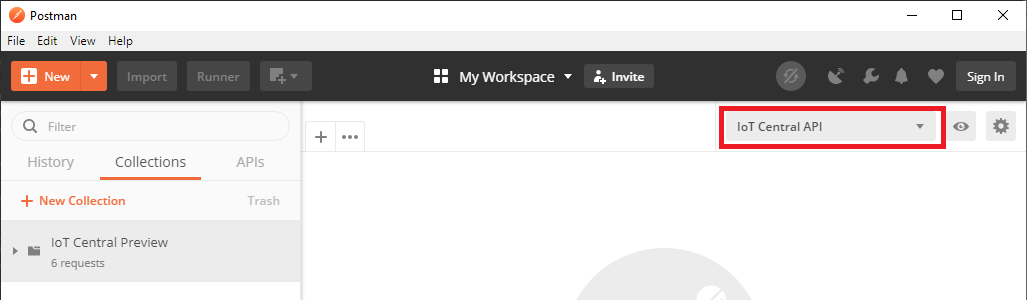
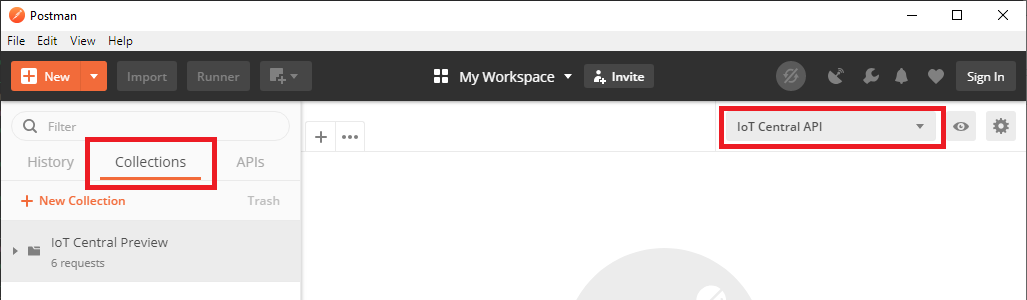
Dry run

Changed region(s): [[0.0623, 0.45, 0.2181, 0.66]]

diff --git a/lab02/IoT-PnP-DeviceFirstProvisioning.md b/lab02/IoT-PnP-DeviceFirstProvisioning.md
@@ -26,7 +26,11 @@ Furthermore, with IoT Plug and Play, cloud solution can understand devices' capa
 > [!IMPORTANT]  
 > **In VSCode with Remote Connection to RP4**
 
-1. Copy and replace `main.c` from `DeviceFirstProvision`  
+> [!TIP]  
+> If you are interested in you can diff the code changes using VSCode's built-in diff function.  
+> [Running Code Diff](https://github.com/awaregroup/Intelligent-Edge-in-a-Day/blob/iotpnp-daisuke/lab02/media/code-diff.mp4)
+
+1. Copy and replace `main.c` from `DeviceFirst` folder  
 
     ```bash
     cp ~/Intelligent-Edge-in-a-Day/lab02/DeviceFirst/main.c ~/Intelligent-Edge-in-a-Day/codegen1

diff --git a/lab02/IoT-PnP-DeviceIdentity-API.md b/lab02/IoT-PnP-DeviceIdentity-API.md
@@ -20,10 +20,6 @@ In [manual operation section](IoT-PnP-DeviceIdentity-Manual.md), you performed a
 
 If you have a device identity and a device template in your IoT Central please delete them.
 
-You may run `Cleanup IoT Central` collection in Postman or manually delete them in IoT Central.
-
-![postman-08](media/postman-08.png)
-
 ## Send RESTful API
 
 `Create Device Identity` Postman collection runs the first 2 operations.

diff --git a/lab02/IoT-PnP-DeviceSpecificCode.md b/lab02/IoT-PnP-DeviceSpecificCode.md
@@ -48,7 +48,7 @@ To make your device app complete, we need to add code to these placeholder funct
 `lab02\DeviceSpecific` folder contains 4 files.  Replace source files from `lab02\DeviceSpecific` folder with :
 
 ```bash
-cp ~/Intelligent-Edge-in-a-Day/lab02/DeviceSpecific/ ~/Intelligent-Edge-in-a-Day/codegen1
+cp ~/Intelligent-Edge-in-a-Day/lab02/DeviceSpecific/* ~/Intelligent-Edge-in-a-Day/codegen1
 ```
 
 ## Re-compile

diff --git a/lab02/IoT-PnP-Prep-Posman.md b/lab02/IoT-PnP-Prep-Posman.md
@@ -14,7 +14,7 @@ Before sending RESTful API, let's set up Postman collection and environment
 1. Import Environment  
     [File] -> [Import], then select `IoT Central API.postman_environment` in `C:\Repo\Intelligent-Edge-in-a-Day\lab02\Postman` folder
 
-1. Select `IoT Central API` environment  
+1. Select `Collection` tab and `IoT Central API` environment  
 
     ![postman-00](media/postman-00.png)
 
